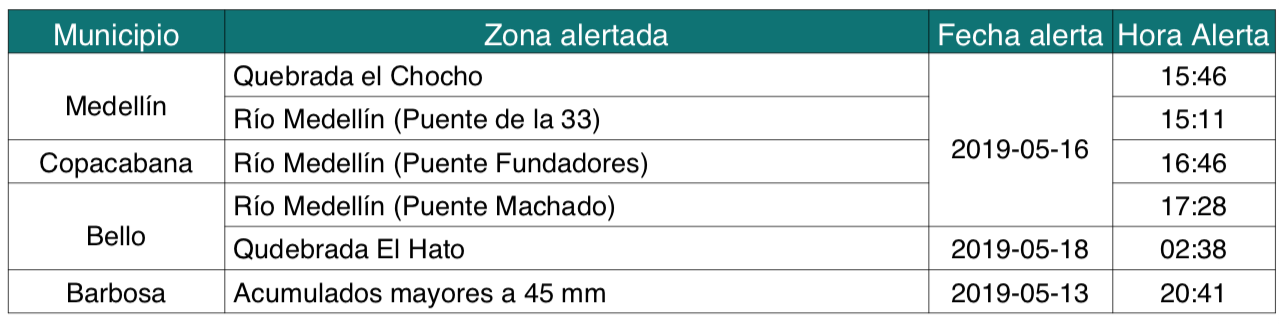
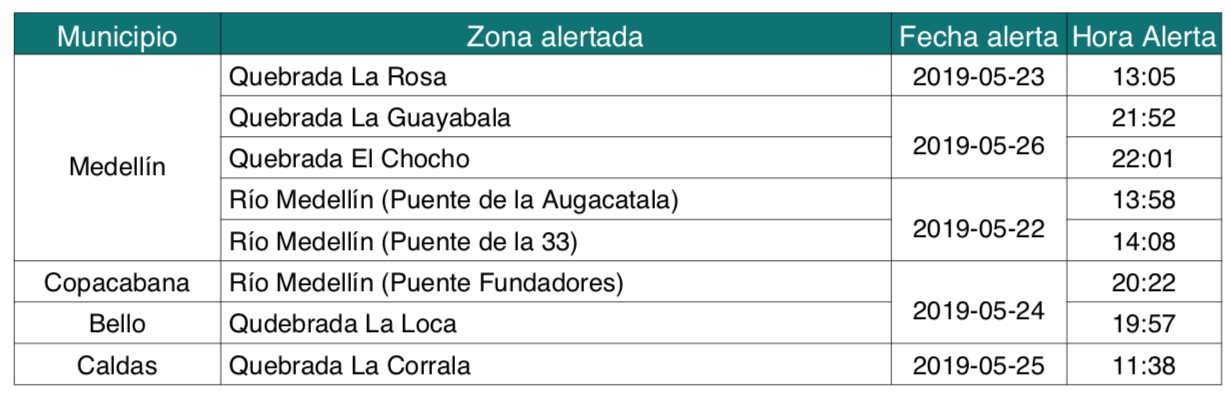
Week May 20th to 26th

Changed region(s): [[0.0, 0.0309, 1.0, 0.9877]]

diff --git a/Informe/TablaInforme.py b/Informe/TablaInforme.py
@@ -69,14 +69,25 @@ JuanMarica.setPageSize((sizex, sizey))
 
 JuanMarica.setFont("Avenir", 24)
 
-# week  May 13th to 19th
+# # week  May 13th to 19th
+# data = [['Municipio',     'Zona alertada'                                       ,'Fecha alerta','Hora Alerta'],
+#         [u'Medellín',     u'Quebrada el Chocho'                                 ,'2019-05-16'  , '15:46'     ],
+#         [u'Medellín',     u'Río Medellín (Puente de la 33)'                     ,'2019-05-16'  , '15:11'     ],
+#         [u'Copacabana',   u'Río Medellín (Puente Fundadores)'                   ,'2019-05-16'  , '16:46'     ],
+#         [u'Bello',        u'Río Medellín (Puente Machado)'                      ,'2019-05-16'  , '17:28'     ],
+#         [u'Bello',        u'Qudebrada El Hato'                                  ,'2019-05-18'  , '02:38'     ],
+#         [u'Barbosa',      u'Acumulados mayores a 45 mm'                         ,'2019-05-13'  , '20:41'     ],
+#        ]
+# week  May 20th to 26th
 data = [['Municipio',     'Zona alertada'                                       ,'Fecha alerta','Hora Alerta'],
-        [u'Medellín',     u'Quebrada el Chocho'                                 ,'2019-05-16'  , '15:46'     ],
-        [u'Medellín',     u'Río Medellín (Puente de la 33)'                     ,'2019-05-16'  , '15:11'     ],
-        [u'Copacabana',   u'Río Medellín (Puente Fundadores)'                   ,'2019-05-16'  , '16:46'     ],
-        [u'Bello',        u'Río Medellín (Puente Machado)'                      ,'2019-05-16'  , '17:28'     ],
-        [u'Bello',        u'Qudebrada El Hato'                                  ,'2019-05-18'  , '02:38'     ],
-        [u'Barbosa',      u'Acumulados mayores a 45 mm'                         ,'2019-05-13'  , '20:41'     ],
+        [u'Medellín',     u'Quebrada La Rosa'                                   ,'2019-05-23'  , '13:05'     ],
+        [u'Medellín',     u'Quebrada La Guayabala'                              ,'2019-05-26'  , '21:52'     ],
+        [u'Medellín',     u'Quebrada El Chocho'                                 ,'2019-05-26'  , '22:01'     ],
+        [u'Medellín',     u'Río Medellín (Puente de la Augacatala)'             ,'2019-05-22'  , '13:58'     ],
+        [u'Medellín',     u'Río Medellín (Puente de la 33)'                     ,'2019-05-22'  , '14:08'     ],
+        [u'Copacabana',   u'Río Medellín (Puente Fundadores)'                   ,'2019-05-24'  , '20:22'     ],
+        [u'Bello',        u'Qudebrada La Loca'                                  ,'2019-05-24'  , '19:57'     ],
+        [u'Caldas',       u'Quebrada La Corrala'                                ,'2019-05-25'  , '11:38'     ],
        ]
 
 
@@ -84,7 +95,6 @@ data = [['Municipio',     'Zona alertada'                                       
 # t=Table(data,[2*inch,1.7*inch,1.5*inch,3.5*inch,3*inch], len(data)*[0.4*inch])
 t=Table(data,[2.0*inch,6.5*inch,1.7*inch,1.5*inch], len(data)*[0.4*inch])
 
-# Muchas y fechas juntas
 t.setStyle(TableStyle([('INNERGRID', (0,0), (-1,-1), 0.25, colors.black),\
                        ('BOX', (0,0), (-1,-1), 0.25, colors.black),\
                        ('ALIGN',(0,0),(-1,-1),'CENTER'),\
@@ -97,18 +107,18 @@ t.setStyle(TableStyle([('INNERGRID', (0,0), (-1,-1), 0.25, colors.black),\
                        ('FONTSIZE', (0, 1), (-1, -1), 18),\
                        ('TEXTCOLOR',(0, 0),(-1,0),colors.white),\
                        # # # Municipio
-                       ('SPAN',   (0,1), (0,2)),\
-                       ('VALIGN', (0,1), (0,2),'MIDDLE'),\
-                       ('SPAN',   (0,4), (0,5)),\
-                       ('VALIGN', (0,4), (0,5),'MIDDLE'),\
+                       ('SPAN',   (0,1), (0,5)),\
+                       ('VALIGN', (0,1), (0,5),'MIDDLE'),\
                        # # # zona
                        # ('SPAN',   (1,4), (1,5)),\
                        # ('VALIGN', (1,4), (1,5),'MIDDLE'),\
                        # # # # # fecha
-                       ('SPAN',   (2,1), (2,4)),\
-                       ('VALIGN', (2,1), (2,4),'MIDDLE'),\
-                       # ('SPAN',   (2,4), (2,5)),\
-                       # ('VALIGN', (2,4), (2,5),'MIDDLE'),\
+                       ('SPAN',   (2,2), (2,3)),\
+                       ('VALIGN', (2,2), (2,3),'MIDDLE'),\
+                       ('SPAN',   (2,4), (2,5)),\
+                       ('VALIGN', (2,4), (2,5),'MIDDLE'),\
+                       ('SPAN',   (2,6), (2,7)),\
+                       ('VALIGN', (2,6), (2,7),'MIDDLE'),\
                        # # # hora
                        # ('SPAN',   (3,6), (3,7)),\
                        # ('VALIGN', (3,6), (3,7),'MIDDLE'),\
